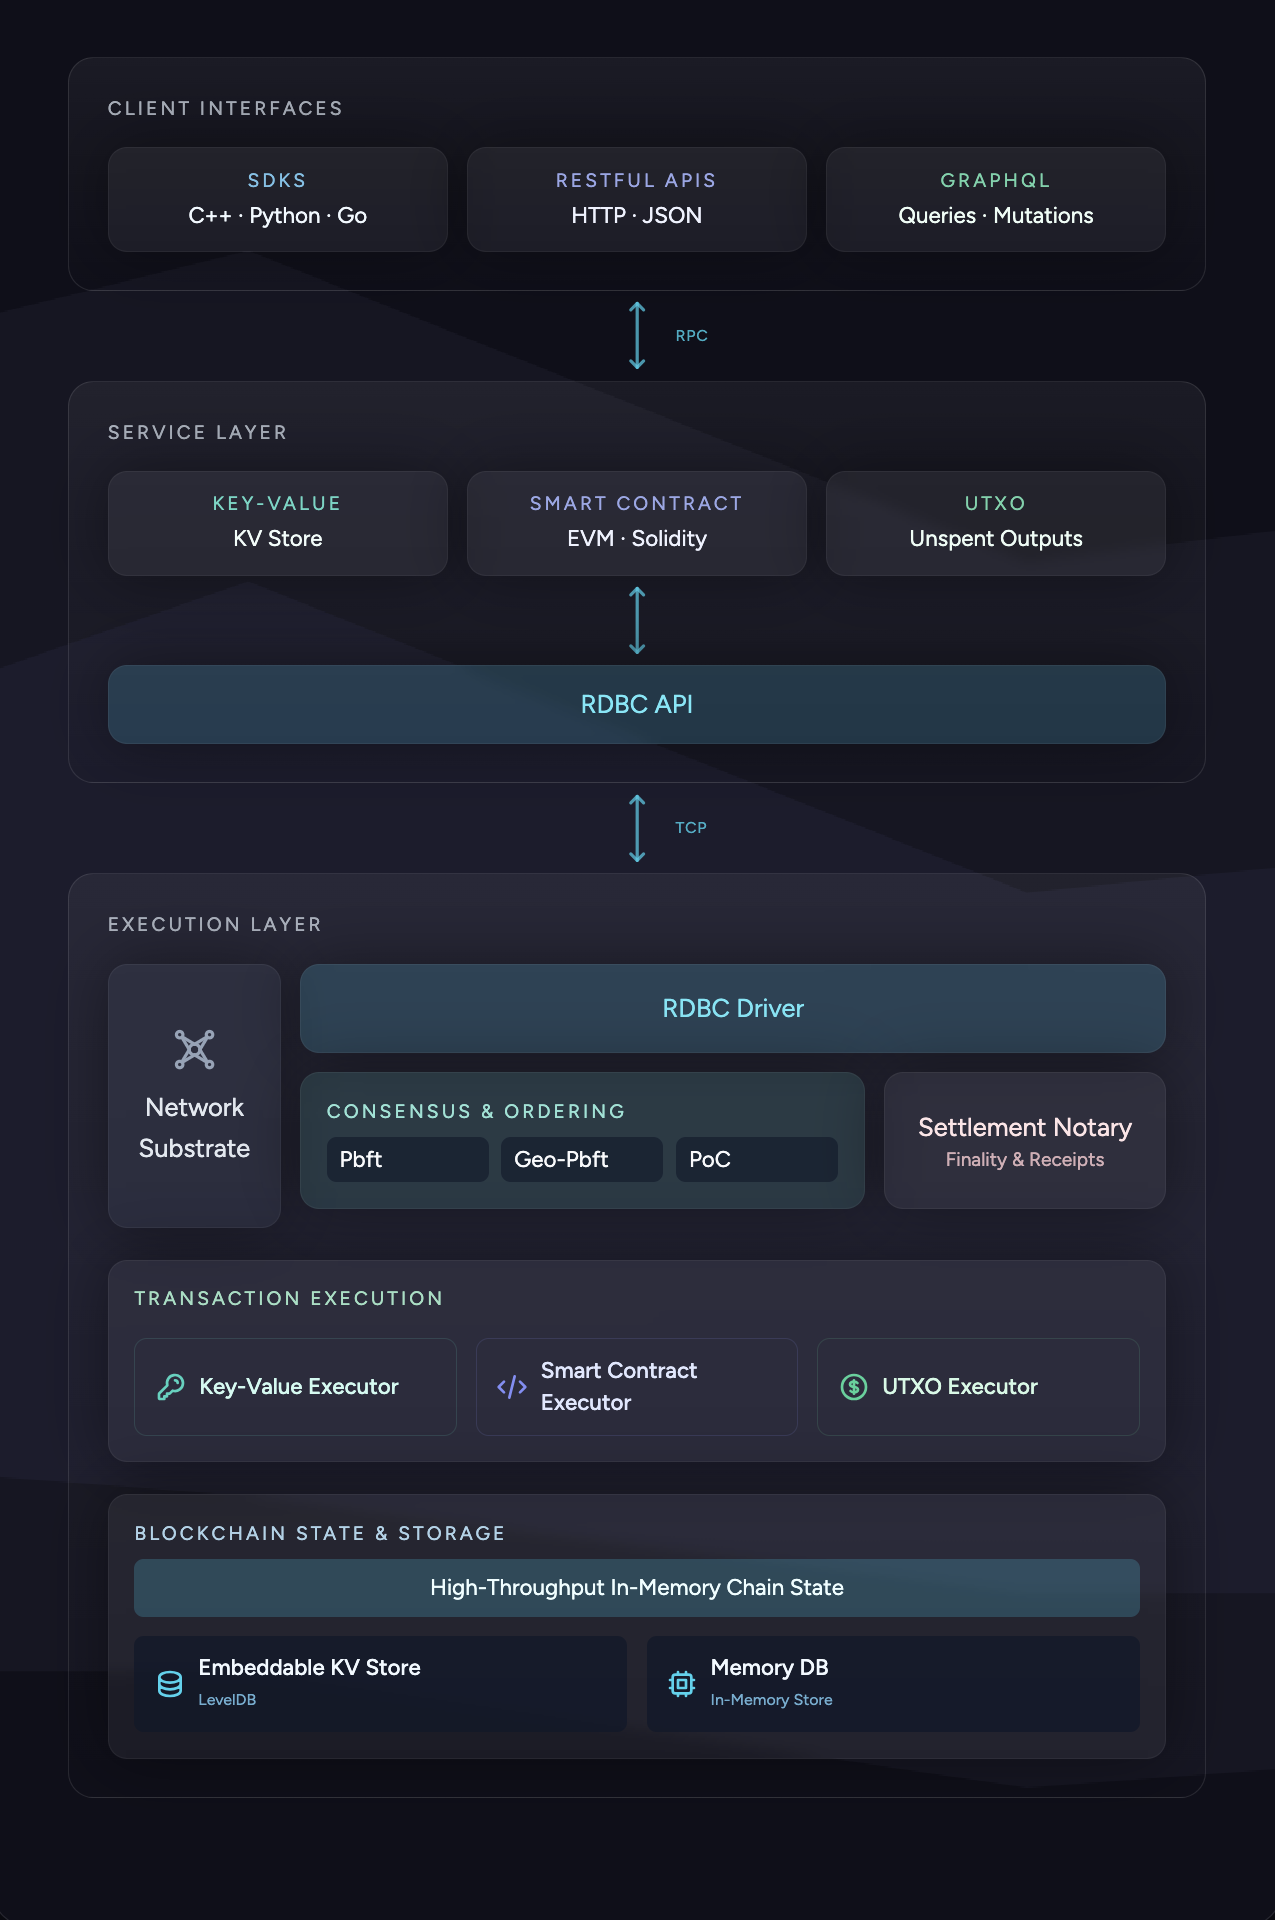
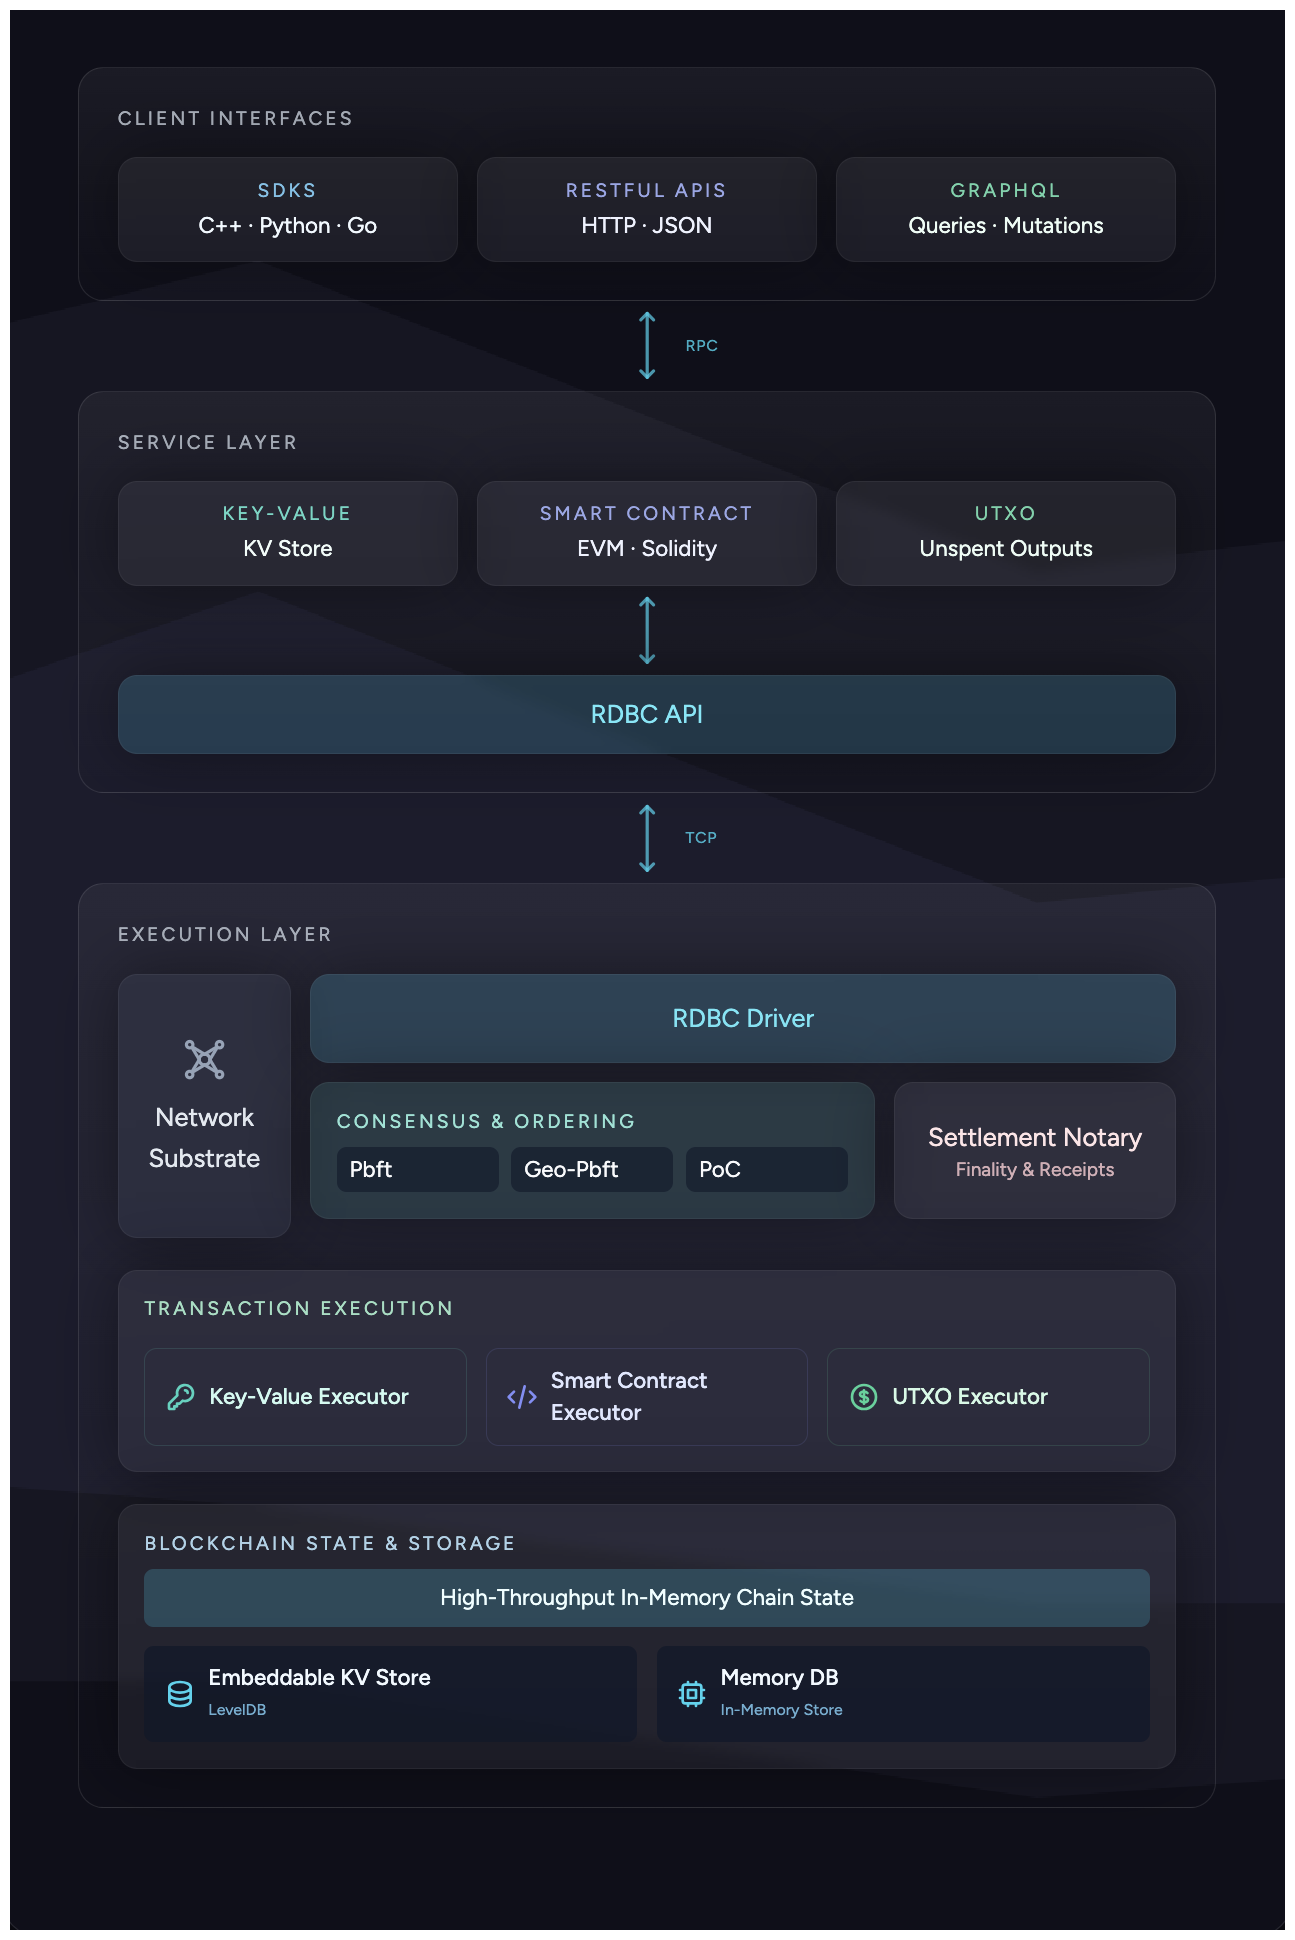
Release chores (#243)
* removed external dependencies from reslens

* update archiecture diagram

* update ecosystem readme

* add border to arch image

diff --git a/ecosystem/README.md b/ecosystem/README.md
@@ -25,28 +25,37 @@ This directory contains the ResilientDB ecosystem components organized as git su
 
 ```
 ecosystem/
-├── graphql/                          # GraphQL service
-├── smart-contract/                   # Smart contract ecosystem
-│   ├── rescontract/                  # ResContract repository
-│   ├── smart-contract-graphql/       # Smart contract GraphQL service
-│   └── resilient-contract-kit/       # Contract development toolkit
-├── monitoring/                       # Monitoring and observability
-│   ├── reslens/                      # ResLens monitoring tool
-│   └── reslens-middleware/           # ResLens middleware
-├── cache/                           # Caching implementations
-│   ├── resilient-node-cache/        # Node.js caching
-│   └── resilient-python-cache/      # Python caching
-├── sdk/                             # Software Development Kits
-│   ├── rust-sdk/                    # Rust SDK
-│   ├── resvault-sdk/                # ResVault SDK
-│   └── resdb-orm/                   # Python ORM
-├── deployment/                      # Deployment and infrastructure
-│   ├── ansible/                     # Ansible playbooks
-│   └── orbit/                       # Orbit deployment tool
-└── tools/                           # Development and operational tools
-    ├── resvault/                    # ResVault tool
-    ├── create-resilient-app/        # App scaffolding tool
-    └── drawing-lib/                 # Drawing library tool
+├── ai-tools/
+│   ├── beacon/
+│   ├── mcp/
+│   │   ├── graphq-llm/
+│   │   ├── resilientdb-mcp/
+│   │   └── ResInsight/
+│   └── nexus/
+├── cache/
+│   ├── resilient-node-cache/
+│   └── resilient-python-cache/
+├── deployment/
+│   ├── ansible/
+│   └── orbit/
+├── graphql/
+├── monitoring/
+│   ├── reslens/
+│   └── reslens-middleware/
+├── sdk/
+│   ├── resdb-orm/
+│   ├── resvault-sdk/
+│   └── rust-sdk/
+├── smart-contract/
+│   ├── rescontract/
+│   ├── resilient-contract-kit/
+│   └── smart-contract-graphql/
+├── third_party/
+│   └── pocketflow/
+└── tools/
+    ├── create-resilient-app/
+    ├── drawing-lib/
+    └── resvault/
 ```
 
 ## Clone Without Ecosystem
